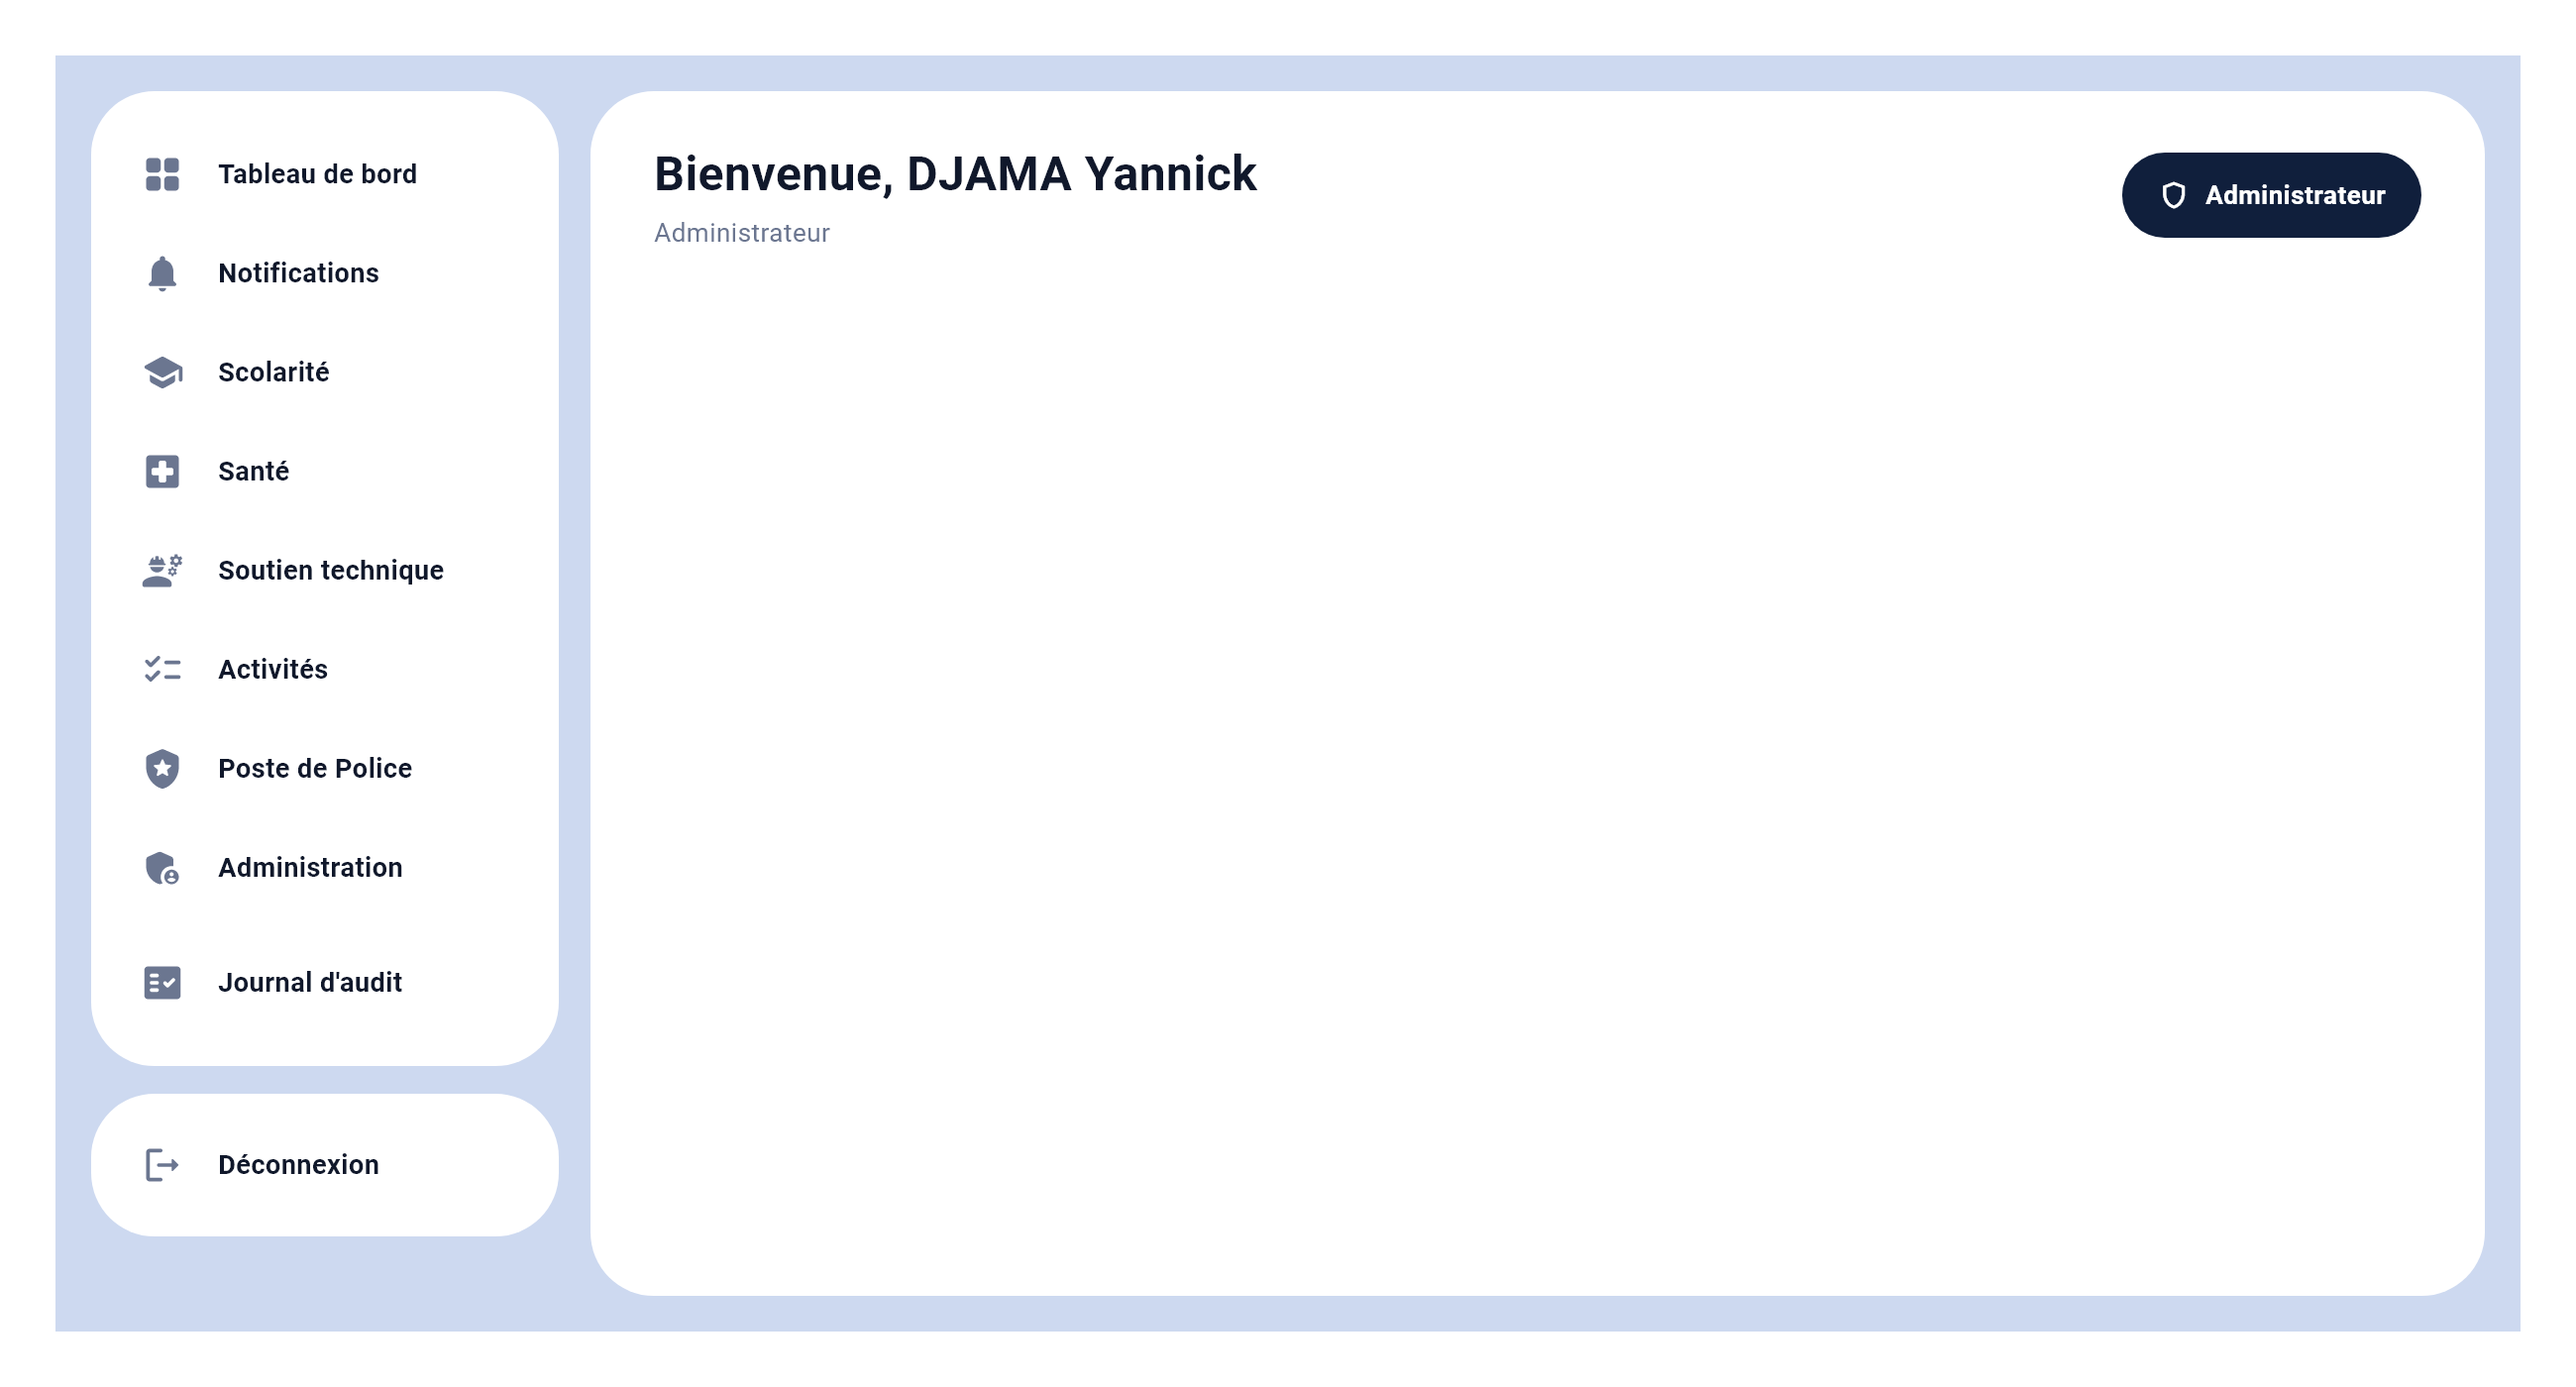
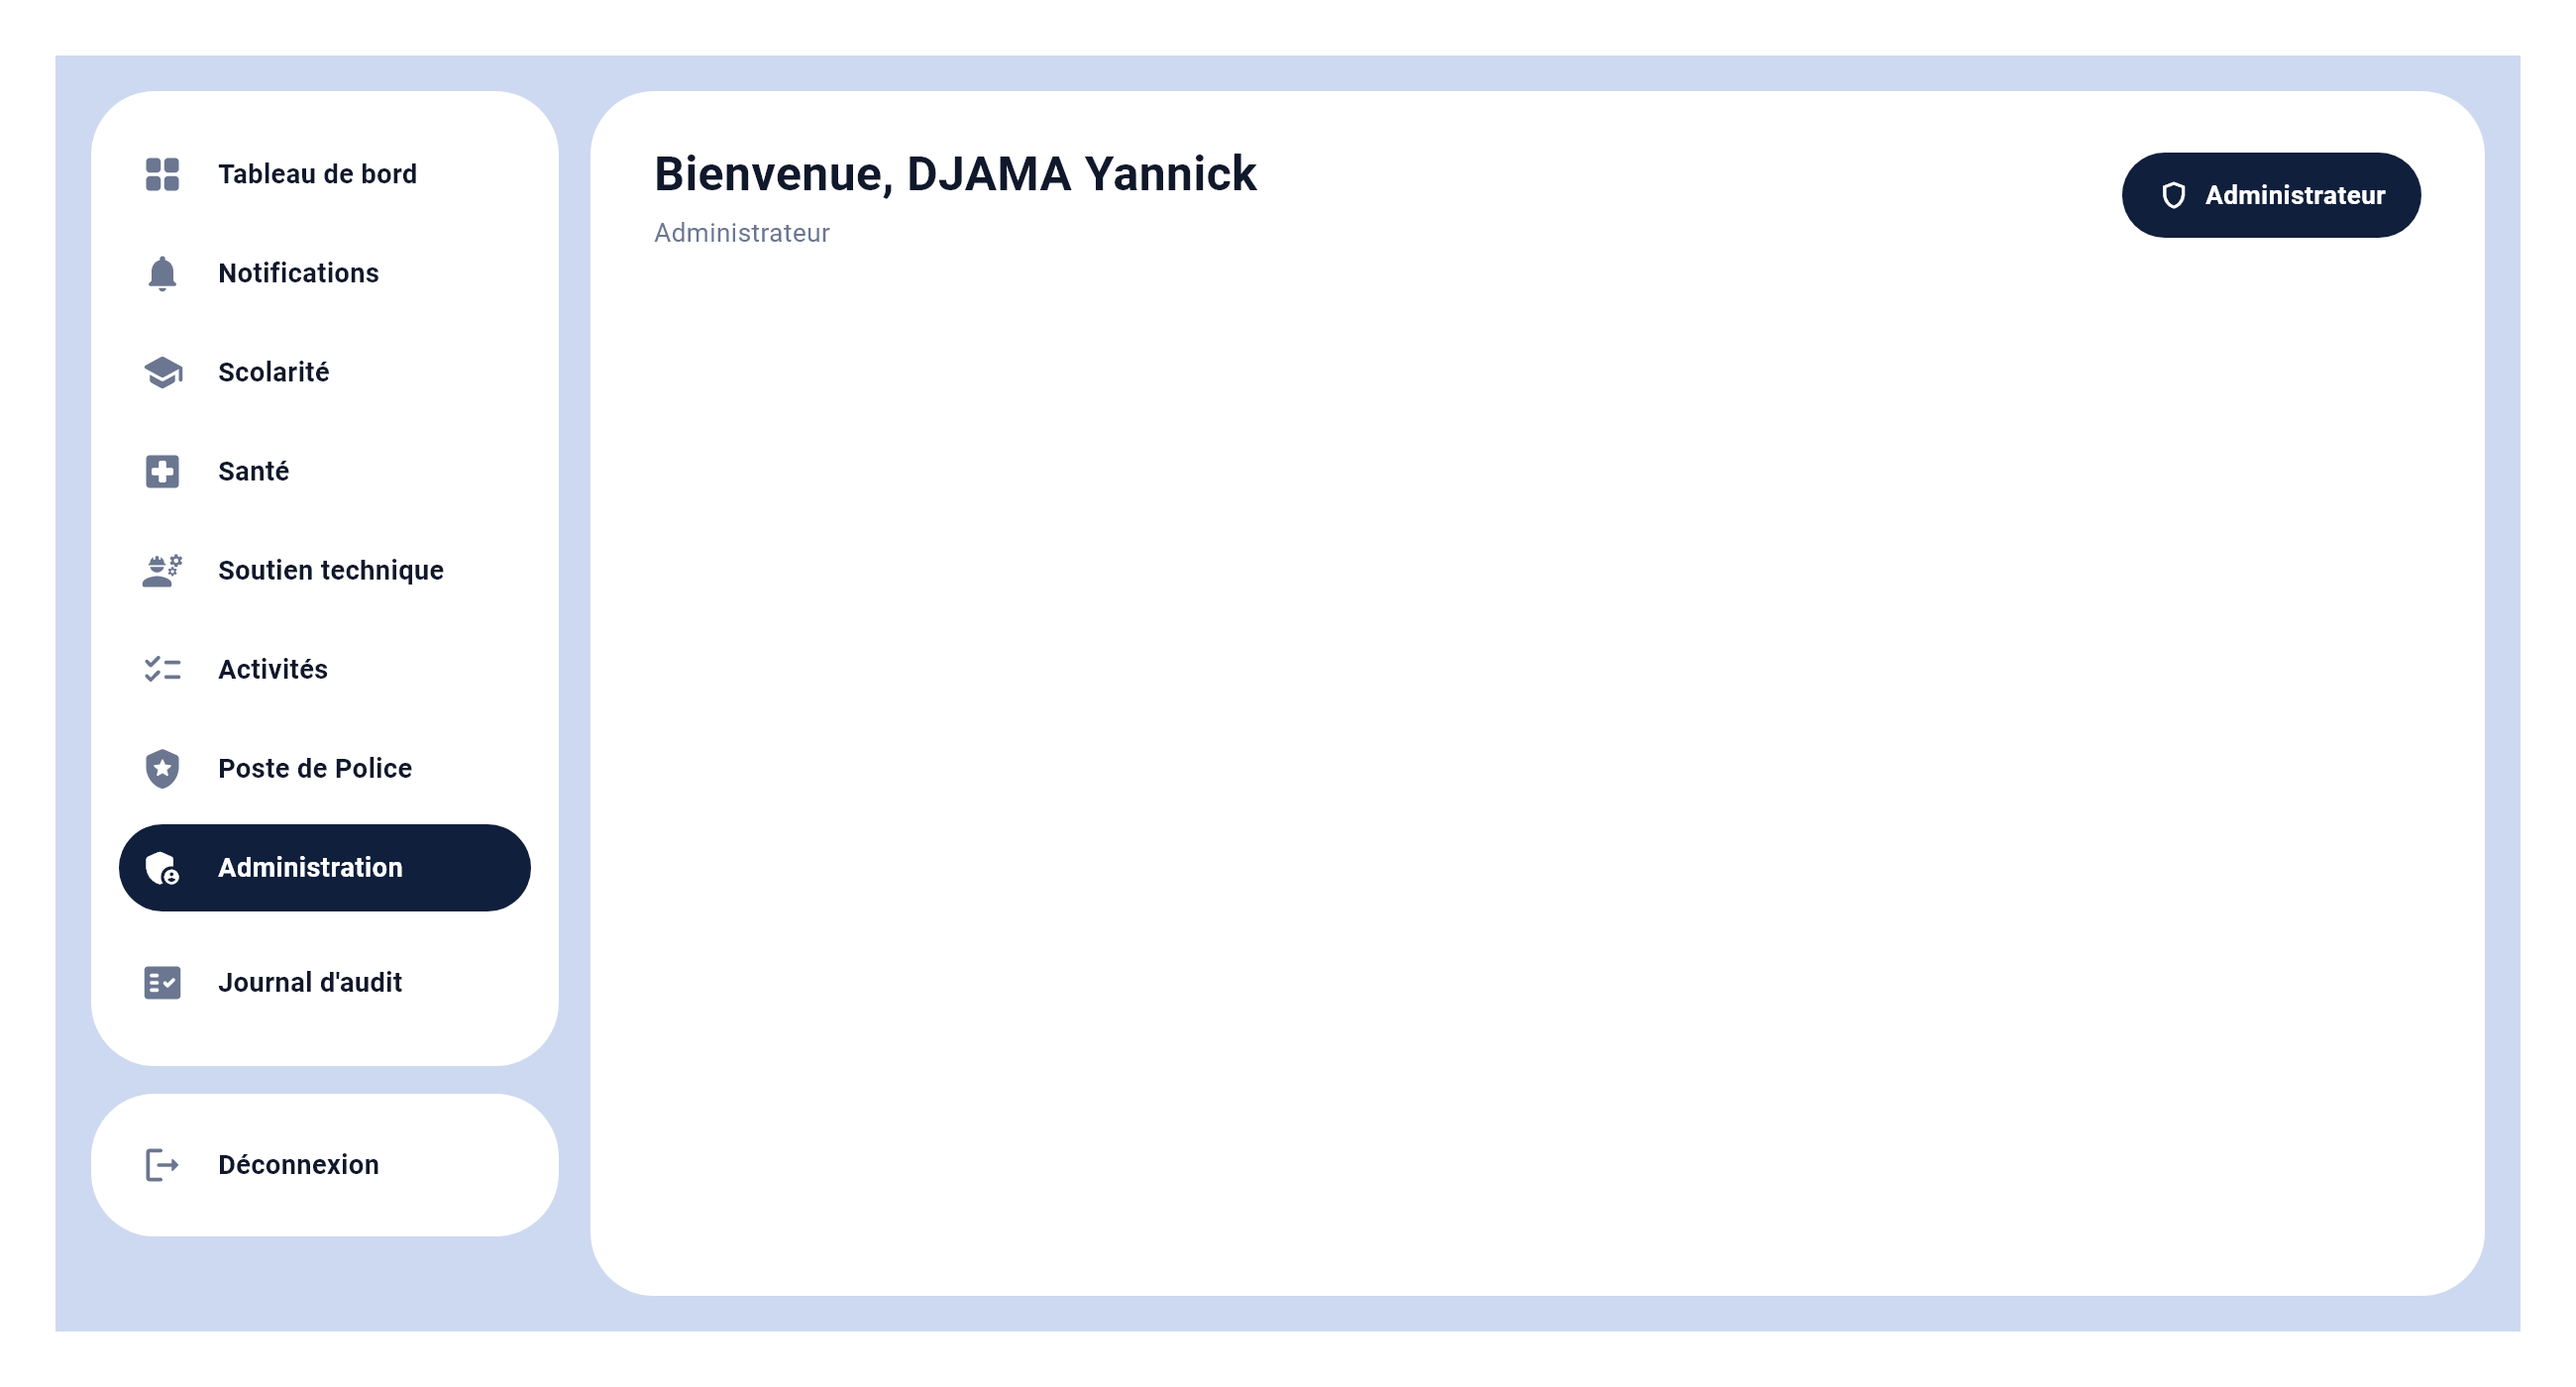
L'entrée active du menu se voit de nouveau
La pilule foncée se dessinait avec Ink, dont la décoration va sur la couche
d'encre du Material — c'est-à-dire sous le fond opaque de la barre. Rien ne
se peignait, et le nom de l'entrée ouverte, écrit en blanc, disparaissait :
le commandant ne voyait plus « Tableau de bord » du tout.

Elle se peint maintenant sur place, dans un Container ; le Material
transparent ne garde que l'onde au toucher.

test/menu_libelles_test.dart vérifie les deux moitiés du contraste : la
pilule foncée derrière, le nom clair dessus.

Changed region(s): [[0.0312, 0.5836, 0.2181, 0.6757]]

diff --git a/test/menu_libelles_test.dart b/test/menu_libelles_test.dart
@@ -9,6 +9,7 @@ import 'package:flutter_riverpod/flutter_riverpod.dart';
 import 'package:flutter_test/flutter_test.dart';
 
 import 'package:sig_ensoa/core/roles.dart';
+import 'package:sig_ensoa/core/theme.dart';
 import 'package:sig_ensoa/features/auth/providers/auth_providers.dart';
 import 'package:sig_ensoa/features/shell/app_shell.dart';
 import 'package:sig_ensoa/models/profil.dart';
@@ -23,7 +24,11 @@ class _SansNotification extends NotificationsNotifier {
   List<AppNotification> build() => const [];
 }
 
-Future<void> _ouvrir(WidgetTester tester, Size taille) async {
+Future<void> _ouvrir(
+  WidgetTester tester,
+  Size taille, {
+  String location = '/scolarite/apprenants',
+}) async {
   tester.view.physicalSize = taille;
   tester.view.devicePixelRatio = 1.0;
   addTearDown(tester.view.reset);
@@ -41,12 +46,12 @@ Future<void> _ouvrir(WidgetTester tester, Size taille) async {
           ),
         ),
       ],
-      child: const MaterialApp(
+      child: MaterialApp(
         // Un chemin hors des modules : le cadre ne déclenche alors aucun
         // rechargement, et la barre se dessine seule.
         home: AppShell(
-          location: '/scolarite/apprenants',
-          child: SizedBox.shrink(),
+          location: location,
+          child: const SizedBox.shrink(),
         ),
       ),
     ),
@@ -80,6 +85,36 @@ void main() {
     await _ouvrir(tester, const Size(1600, 1200));
     expect(find.text('Activités'), findsOneWidget);
     expect(find.text('Tâches'), findsNothing);
+  });
+
+  // Une pilule peinte avec Ink se dessinait sous le fond opaque de la barre :
+  // l'entrée active disparaissait, texte blanc sur blanc. On vérifie donc les
+  // deux moitiés du contraste — la pilule foncée, et le texte clair dessus.
+  testWidgets("l'entrée active se voit : pilule foncée, texte clair", (
+    tester,
+  ) async {
+    await _ouvrir(tester, const Size(1600, 1200), location: '/administration');
+
+    final texte = tester.widget<Text>(find.text('Administration'));
+    expect(
+      texte.style?.color,
+      Colors.white,
+      reason: "le nom de l'entrée active s'écrit en clair",
+    );
+
+    final pilule = tester.widgetList<Container>(
+      find.ancestor(
+        of: find.text('Administration'),
+        matching: find.byType(Container),
+      ),
+    );
+    expect(
+      pilule.any(
+        (c) => (c.decoration as BoxDecoration?)?.color == AppColors.navy,
+      ),
+      isTrue,
+      reason: 'la pilule foncée doit se peindre derrière le nom',
+    );
   });
 
   testWidgets('sur un écran étroit, la barre se referme sur ses icônes', (

diff --git a/lib/features/shell/app_shell.dart b/lib/features/shell/app_shell.dart
@@ -555,32 +555,42 @@ class _Icone extends StatelessWidget {
       );
     }
 
-    return InkWell(
-      borderRadius: BorderRadius.circular(AppRadii.pill),
-      onTap: onTap,
-      child: Ink(
-        decoration: BoxDecoration(
-          color: actif ? AppColors.navy : Colors.transparent,
+    // La pilule se peint ici même, dans un Container, et non avec Ink : la
+    // barre est posée sur un fond opaque, et une décoration d'encre se
+    // dessine sous ce fond — l'entrée active devenait alors invisible, texte
+    // blanc sur blanc. Le Material transparent garde l'onde au toucher.
+    return Container(
+      decoration: BoxDecoration(
+        color: actif ? AppColors.navy : Colors.transparent,
+        borderRadius: BorderRadius.circular(AppRadii.pill),
+      ),
+      clipBehavior: Clip.antiAlias,
+      child: Material(
+        type: MaterialType.transparency,
+        child: InkWell(
           borderRadius: BorderRadius.circular(AppRadii.pill),
-        ),
-        padding: const EdgeInsets.only(right: 14),
-        child: Row(
-          children: [
-            pastille,
-            const SizedBox(width: 6),
-            Expanded(
-              child: Text(
-                libelle,
-                maxLines: 1,
-                overflow: TextOverflow.ellipsis,
-                style: TextStyle(
-                  color: actif ? Colors.white : AppColors.ink,
-                  fontSize: 13.5,
-                  fontWeight: actif ? FontWeight.w800 : FontWeight.w600,
+          onTap: onTap,
+          child: Padding(
+            padding: const EdgeInsets.only(right: 14),
+            child: Row(
+              children: [
+                pastille,
+                const SizedBox(width: 6),
+                Expanded(
+                  child: Text(
+                    libelle,
+                    maxLines: 1,
+                    overflow: TextOverflow.ellipsis,
+                    style: TextStyle(
+                      color: actif ? Colors.white : AppColors.ink,
+                      fontSize: 13.5,
+                      fontWeight: actif ? FontWeight.w800 : FontWeight.w600,
+                    ),
+                  ),
                 ),
-              ),
+              ],
             ),
-          ],
+          ),
         ),
       ),
     );

diff --git a/outils/captures_fiche_test.dart b/outils/captures_fiche_test.dart
@@ -746,8 +746,10 @@ void main() {
     await _dessiner(
       tester,
       taille: const Size(1300, 700),
+      // Un chemin qui ne recharge rien, et qui montre une entrée active : la
+      // pilule foncée fait partie de ce qu'on vient regarder.
       ecran: const AppShell(
-        location: '/scolarite/apprenants',
+        location: '/administration',
         child: SizedBox.shrink(),
       ),
       doublures: [

diff --git a/README.md b/README.md
@@ -122,6 +122,12 @@ pixels de large, chaque entrée écrit donc son nom à côté de son icône ; en
 dessous — téléphone, petite tablette — la barre se referme sur ses icônes et
 l'infobulle reprend son office : la place y vaut mieux au contenu.
 
+L'entrée ouverte se peint en pilule foncée, nom en blanc. Elle avait d'abord
+disparu : la pilule se dessinait avec `Ink`, dont la décoration va sur la
+couche d'encre du `Material` — c'est-à-dire **sous** le fond opaque de la
+barre. Texte blanc sur blanc. Elle se peint maintenant sur place, dans un
+`Container`, le `Material` transparent ne gardant que l'onde au toucher.
+
 L'entrée `/logistique/taches` s'appelle désormais **Activités** — le nom de ce
 qu'on y organise — et remonte juste avant le **Poste de Police**. Elle fermait
 la marche, loin de ce à quoi elle sert. Le rail parcourt `elementsNav` dans
@@ -131,7 +137,7 @@ bouton.
 ### État à la fin de la journée
 
 - `flutter analyze` : aucun avertissement
-- **142 tests** passent, dont quatre fichiers nés aujourd'hui :
+- **143 tests** passent, dont quatre fichiers nés aujourd'hui :
   `test/tableau_de_bord_test.dart`, `test/taches_test.dart`,
   `test/soutien_technique_onglets_test.dart` et
   `test/menu_libelles_test.dart`
